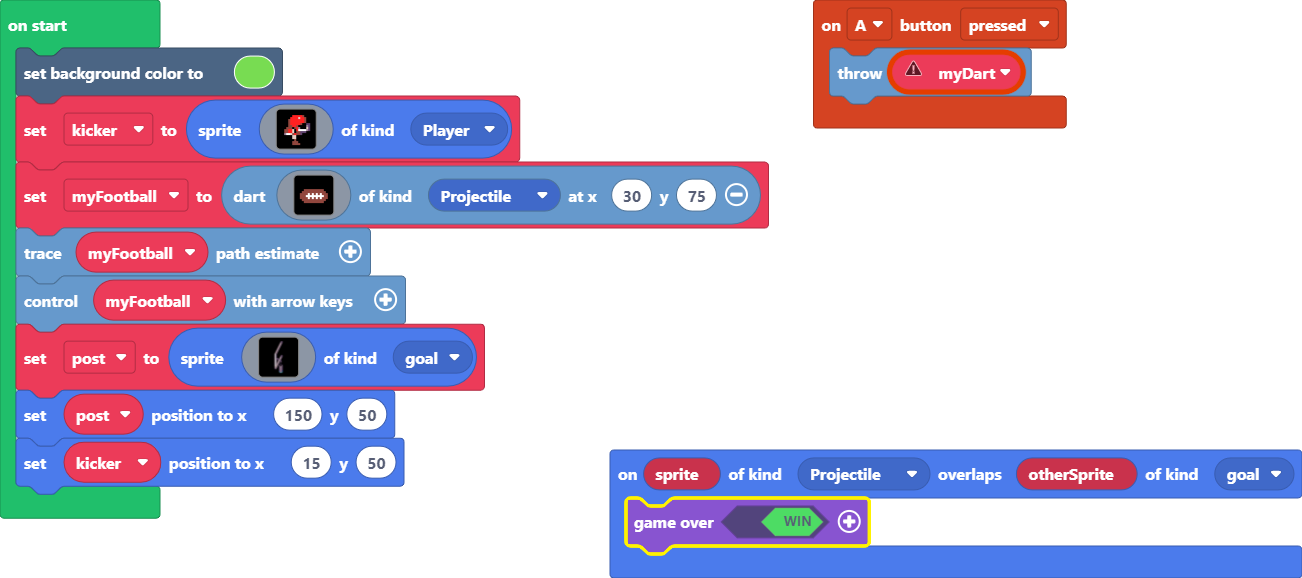
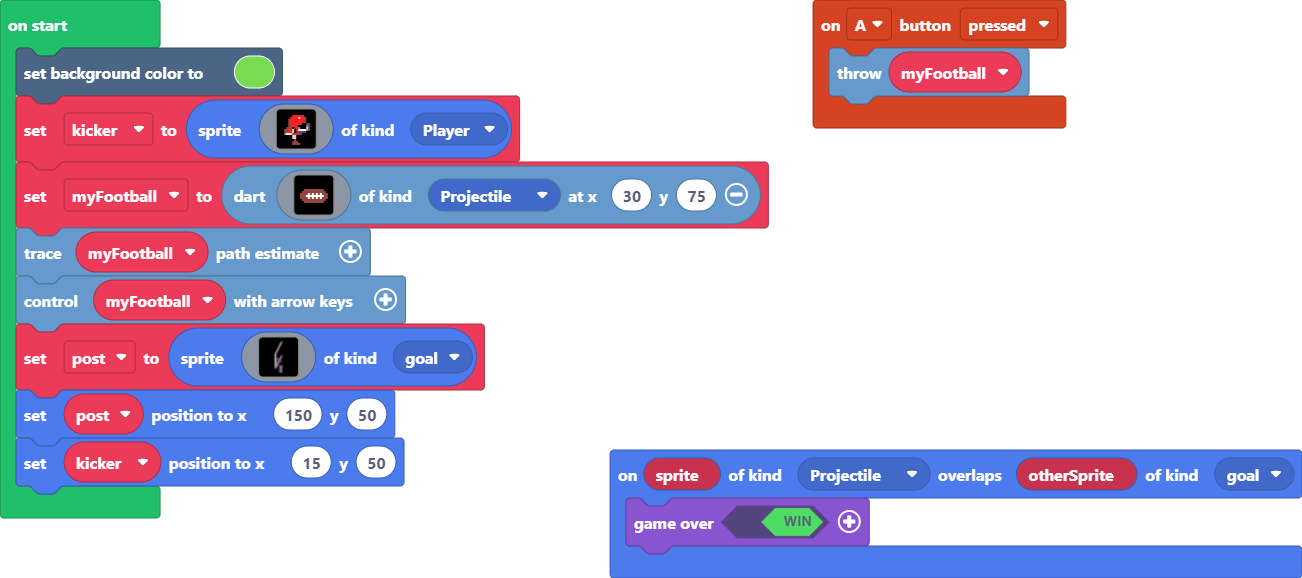
Update main.blocks, main.ts

diff --git a/main.ts b/main.ts
@@ -2,12 +2,12 @@ namespace SpriteKind {
     export const goal = SpriteKind.create()
 }
 controller.A.onEvent(ControllerButtonEvent.Pressed, function () {
-    let myDart: Dart = null
-    myDart.throwDart()
+    myFootball.throwDart()
 })
 sprites.onOverlap(SpriteKind.Projectile, SpriteKind.goal, function (sprite, otherSprite) {
     game.over(true)
 })
+let myFootball: Dart = null
 scene.setBackgroundColor(7)
 let kicker = sprites.create(img`
     . . . . . . . . . . . . . . . . 
@@ -27,7 +27,7 @@ let kicker = sprites.create(img`
     f f . . . . e e e . . . . . . . 
     . . . . . . e e e e . . . . . . 
     `, SpriteKind.Player)
-let myFootball = darts.create(img`
+myFootball = darts.create(img`
     . . . . . . . . . . . . . . . . 
     . . . . . . . . . . . . . . . . 
     . . . . . . . . . . . . . . . . 
